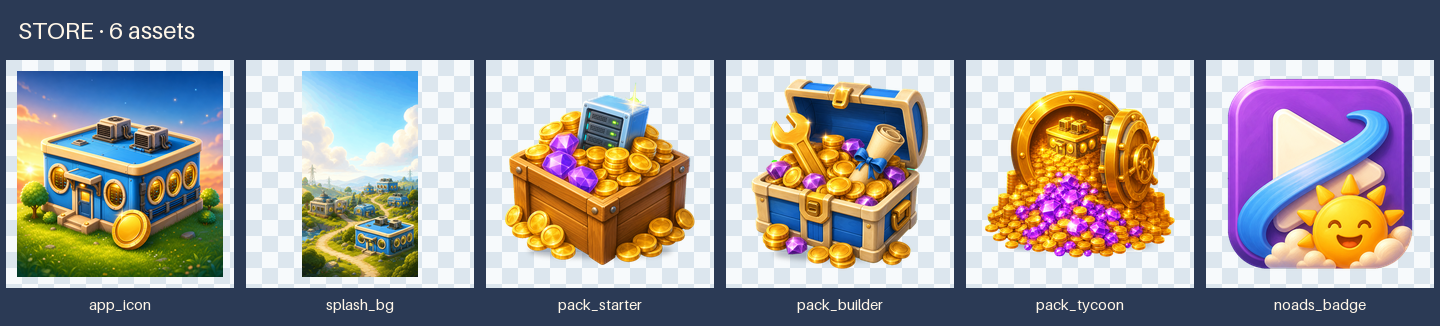
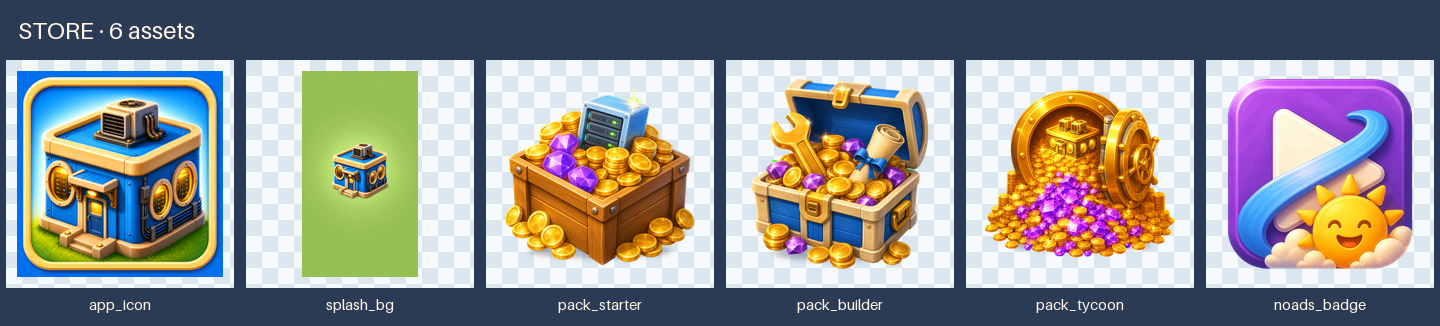
Finish the final brand presentation

Changed region(s): [[0.0, 0.2147, 0.1562, 0.8589], [0.1875, 0.2147, 0.3125, 0.8589]]

diff --git a/art-renders/briefs/final_prompt_record.md b/art-renders/briefs/final_prompt_record.md
@@ -106,3 +106,25 @@ Avoid: thin lines, flat vector art, emoji style, clip art, photorealism, gritty 
 - 通用图标使用技能随附 `remove_chroma_key.py --key-color '#ff00ff' --soft-matte --transparent-threshold 18 --opaque-threshold 80 --edge-feather 0.6 --edge-contract 1 --spill-cleanup`；紫色宝石为保护主体紫色，单独使用硬阈值 `--tolerance 14`。`ic_server` 源图的键色场在 `#ef0cd6` 周围轻微漂移，单独使用 `transparent=70 / opaque=180` 的宽软阈值，消除浅色底可见的全画布半透明 veil。
 - `finish_transparent_asset.py --size 512 --margin 0.045 --no-shadow` 统一画布、体量和安全边距；`build_final_visuals.py` 复现全部成品。
 - 30 枚缩至 48px 的人工检查联系表：`docs/ui_review/10_batch4_icons_48px_contact.png`；全尺寸联系表：`docs/ui_review/10_batch4_icons_full_contact.png`。
+
+## §10 批次⑦ · 品牌面生成提示
+
+品牌面以既有 `app_icon.png` 为风格参考，由内置 `imagegen` 重绘；生成原稿替换
+`visual/work/app_icon_source_v1.png` 与 `visual/work/splash_bg_source_v1.png`，再经
+`build_final_visuals.py --only store/...` 标准化为 App Store 规格。
+
+### App Icon
+
+```text
+Edit this into a premium iOS game app icon for Data Center Tycoon. Keep the same charming blue-and-cream cartoon data-center building design language and warm glowing gold windows, but simplify radically to ONE single compact blue data-center building centered and filling roughly 68% of the square. Place it on a clean sky-blue background with only a subtle soft grass base and warm halo. Add a bold thick rounded cream-and-gold border frame inset from the square edge, with an inner deep-blue keyline, designed to remain readable at 60px. Use strong silhouette, large simple shapes, clean hand-painted 3D mobile-game rendering, top-left warm light, high contrast. No coin, no extra buildings, no trees, no clouds, no text, no letters, no logos, no tiny details, no transparency, no mockup, no device frame. Square 1:1 icon composition; artwork must fill the entire square to all edges.
+```
+
+首稿四角出现黑色外露区，未接入；二次编辑保持主体不变，将奶油金圆框内缩约 3.5%，四角补为完整不透明的深天蓝品牌底色。最终 1024² 成品四角 RGB 均为蓝色，无透明或黑角。
+
+### 启动屏
+
+```text
+Create a minimalist portrait mobile game launch-screen artwork derived from this exact Data Center Tycoon app-icon design. Tall 9:16 composition. Use a perfectly clean, nearly solid grass-green background (#8FBF5A visual target) with only a very subtle lighter radial glow behind the center. Place one small centered blue data-center building emblem, matching the reference building's blue, cream, and warm-gold windows, occupying about 32% of the canvas width and positioned slightly above vertical center. No landscape, no sky, no clouds, no paths, no trees, no coins, no extra buildings, no text, no letters, no wordmark, no gradient bands, no noise, no transparency, no device mockup. Quiet premium loading screen with generous empty green breathing room; full-bleed portrait artwork.
+```
+
+Godot `boot_splash/bg_color` 同步为 `#8FBF5A`，避免载入前后边缘闪过旧的深蓝底色。

diff --git a/docs/10_final_look_plan.md b/docs/10_final_look_plan.md
@@ -198,3 +198,12 @@
 - [x] 主园区 / 行情 / 欠费三套音乐改为 1s 淡出 + 1s 淡入，总计 2s crossfade；同 cue 不重启、缺失 cue 不打断当前音乐，未修改 `core/*.gd`。
 - [x] 原创确定性合成与 QA 脚本已更新；23/23 均为 48kHz 双声道，音乐为 Vorbis、音效为 24-bit PCM。新 UI cue 时长与峰值检查通过，夜间环境 RMS 为 -22.19dBFS，运行时再以 -18dB 混音。
 - [x] 门禁：数据与 146 art / 23 audio 资产通过；`test_runner` 103/103；英文 30/30、简中 30/30 Metal 实渲染通过；60 张输出逐文件确认为 660×1434。
+
+### 2026-08-03 · 批次⑦（B · 品牌面与终检）
+
+- [x] App Icon 由内置 `imagegen` 按 §7 重绘为单主体蓝色机房、奶油金粗圆框和深天蓝全幅底色；首稿因四角黑色外露被拒绝，返修成品为 1024×1024 RGB、不透明、无黑角，60px 缩略仍可识别。
+- [x] 启动屏改为 `#8FBF5A` 草绿留白 + 单一蓝色机房主体，1536×2732 RGB、不透明；`project.godot` 的 boot splash 底色同步，加载前后不再闪旧深蓝。
+- [x] 图标与启动屏生成原稿、完整 prompt、标准化构建和 QA 均已落库；视觉资产仍为 146/146，无清单漂移，品牌面成品同步到 `art-renders/visual/final/store/` 与 `assets/art/store/`。
+- [x] 园区 / 机房棋盘 / 行情 / 时代演出 / 离线奖励 / 商店六个终检屏完成英文与简中真实 Metal 回放；12 张归档均为 660×1434，位于 `docs/ui_review/10_final_{en,zh_CN}_*.png`。
+- [x] 最终自动门禁：数据与 146 art / 23 audio 资产通过；`test_runner` 103/103；英文 30/30、简中 30/30 视觉回归通过。
+- [ ] 真机双语与正式 App Store 截图不能由桌面回归替代：已实际触发 `iOS Release Candidate` 导出，Godot 因 preset 的 Team ID、Bundle ID 与签名仍为所有者占位输入而在配置检查阶段拒绝导出；本机也没有可用 iOS Simulator。保持为 `docs/release_checklist.md` 的外部发行门禁，不虚报完成。

diff --git a/docs/release_checklist.md b/docs/release_checklist.md
@@ -10,14 +10,14 @@
 
 ## Automated gates
 
-- [x] `python3 tools/validate_data.py`（2026-08-02：11 表、双语、134 art IDs）
-- [x] `godot --headless --path . tests/test_runner.tscn`（2026-08-02：103 passed）
-- [x] `godot --disable-vsync --max-fps 60 --path . tests/visual_smoke.tscn -- --locale=en`（2026-08-02：30 态通过）
-- [x] `godot --disable-vsync --max-fps 60 --path . tests/visual_smoke.tscn -- --locale=zh_CN`（2026-08-02：30 态通过）
+- [x] `python3 tools/validate_data.py`（2026-08-03：11 表、双语、146 art IDs）
+- [x] `godot --headless --path . tests/test_runner.tscn`（2026-08-03：103 passed）
+- [x] `godot --disable-vsync --max-fps 60 --path . tests/visual_smoke.tscn -- --locale=en`（2026-08-03：30 态、660×1434 通过）
+- [x] `godot --disable-vsync --max-fps 60 --path . tests/visual_smoke.tscn -- --locale=zh_CN`（2026-08-03：30 态、660×1434 通过）
 - [x] `godot --disable-vsync --max-fps 240 --path . tests/performance_smoke.tscn`（2026-08-02：average 4.23ms / p95 11.04ms / 零泄漏）
 - [ ] iPhone 12 与 iPhone 17 各跑一次 Instruments：六机房 + 金币并发保持 60fps；本项不能用桌面烟测替代
 - [x] `python3 tools/simulate_economy.py`（2026-08-02：三类 30 天路径与多 seed 门禁通过；两项调优提示不阻塞）
-- [x] `python3 tools/check_assets.py --strict --audio`（2026-08-02：134 art / 4 font / 16 audio）
+- [x] `python3 tools/check_assets.py --strict --audio`（2026-08-03：146 art / 4 font / 23 audio）
 - [ ] `python3 tools/check_app_store_assets.py`
 - [ ] `python3 tools/check_release.py`
 - [ ] Godot iOS Xcode-project ZIP export completes without warnings; Xcode Archive then signs/uploads the app

diff --git a/docs/store/README.md b/docs/store/README.md
@@ -20,4 +20,6 @@ docs/store/screenshots/
 
 `iphone_69` 接受 Apple 当前列出的任一竖屏最高档尺寸：1260×2736、1290×2796 或 1320×2868；`ipad_13` 接受 2064×2752 或 2048×2732。同一组五张必须使用同一尺寸。工程导出为 iPhone/iPad 通用包，因此 iPad 截图也是发布必需项。
 
+§10 final-look 的桌面审片归档位于 `docs/ui_review/10_final_{en,zh_CN}_*.png`，固定 660×1434，只用于游戏内 UI 验收；它们不是本目录要求的正式 App Store Connect 尺寸，也不冒充真机截图。
+
 运行 `python3 tools/check_app_store_assets.py` 做机器验收。规格来源：[Apple App Store Connect Screenshot specifications](https://developer.apple.com/help/app-store-connect/reference/app-information/screenshot-specifications/)，发布前仍需重新核对 Apple 的最新要求。
